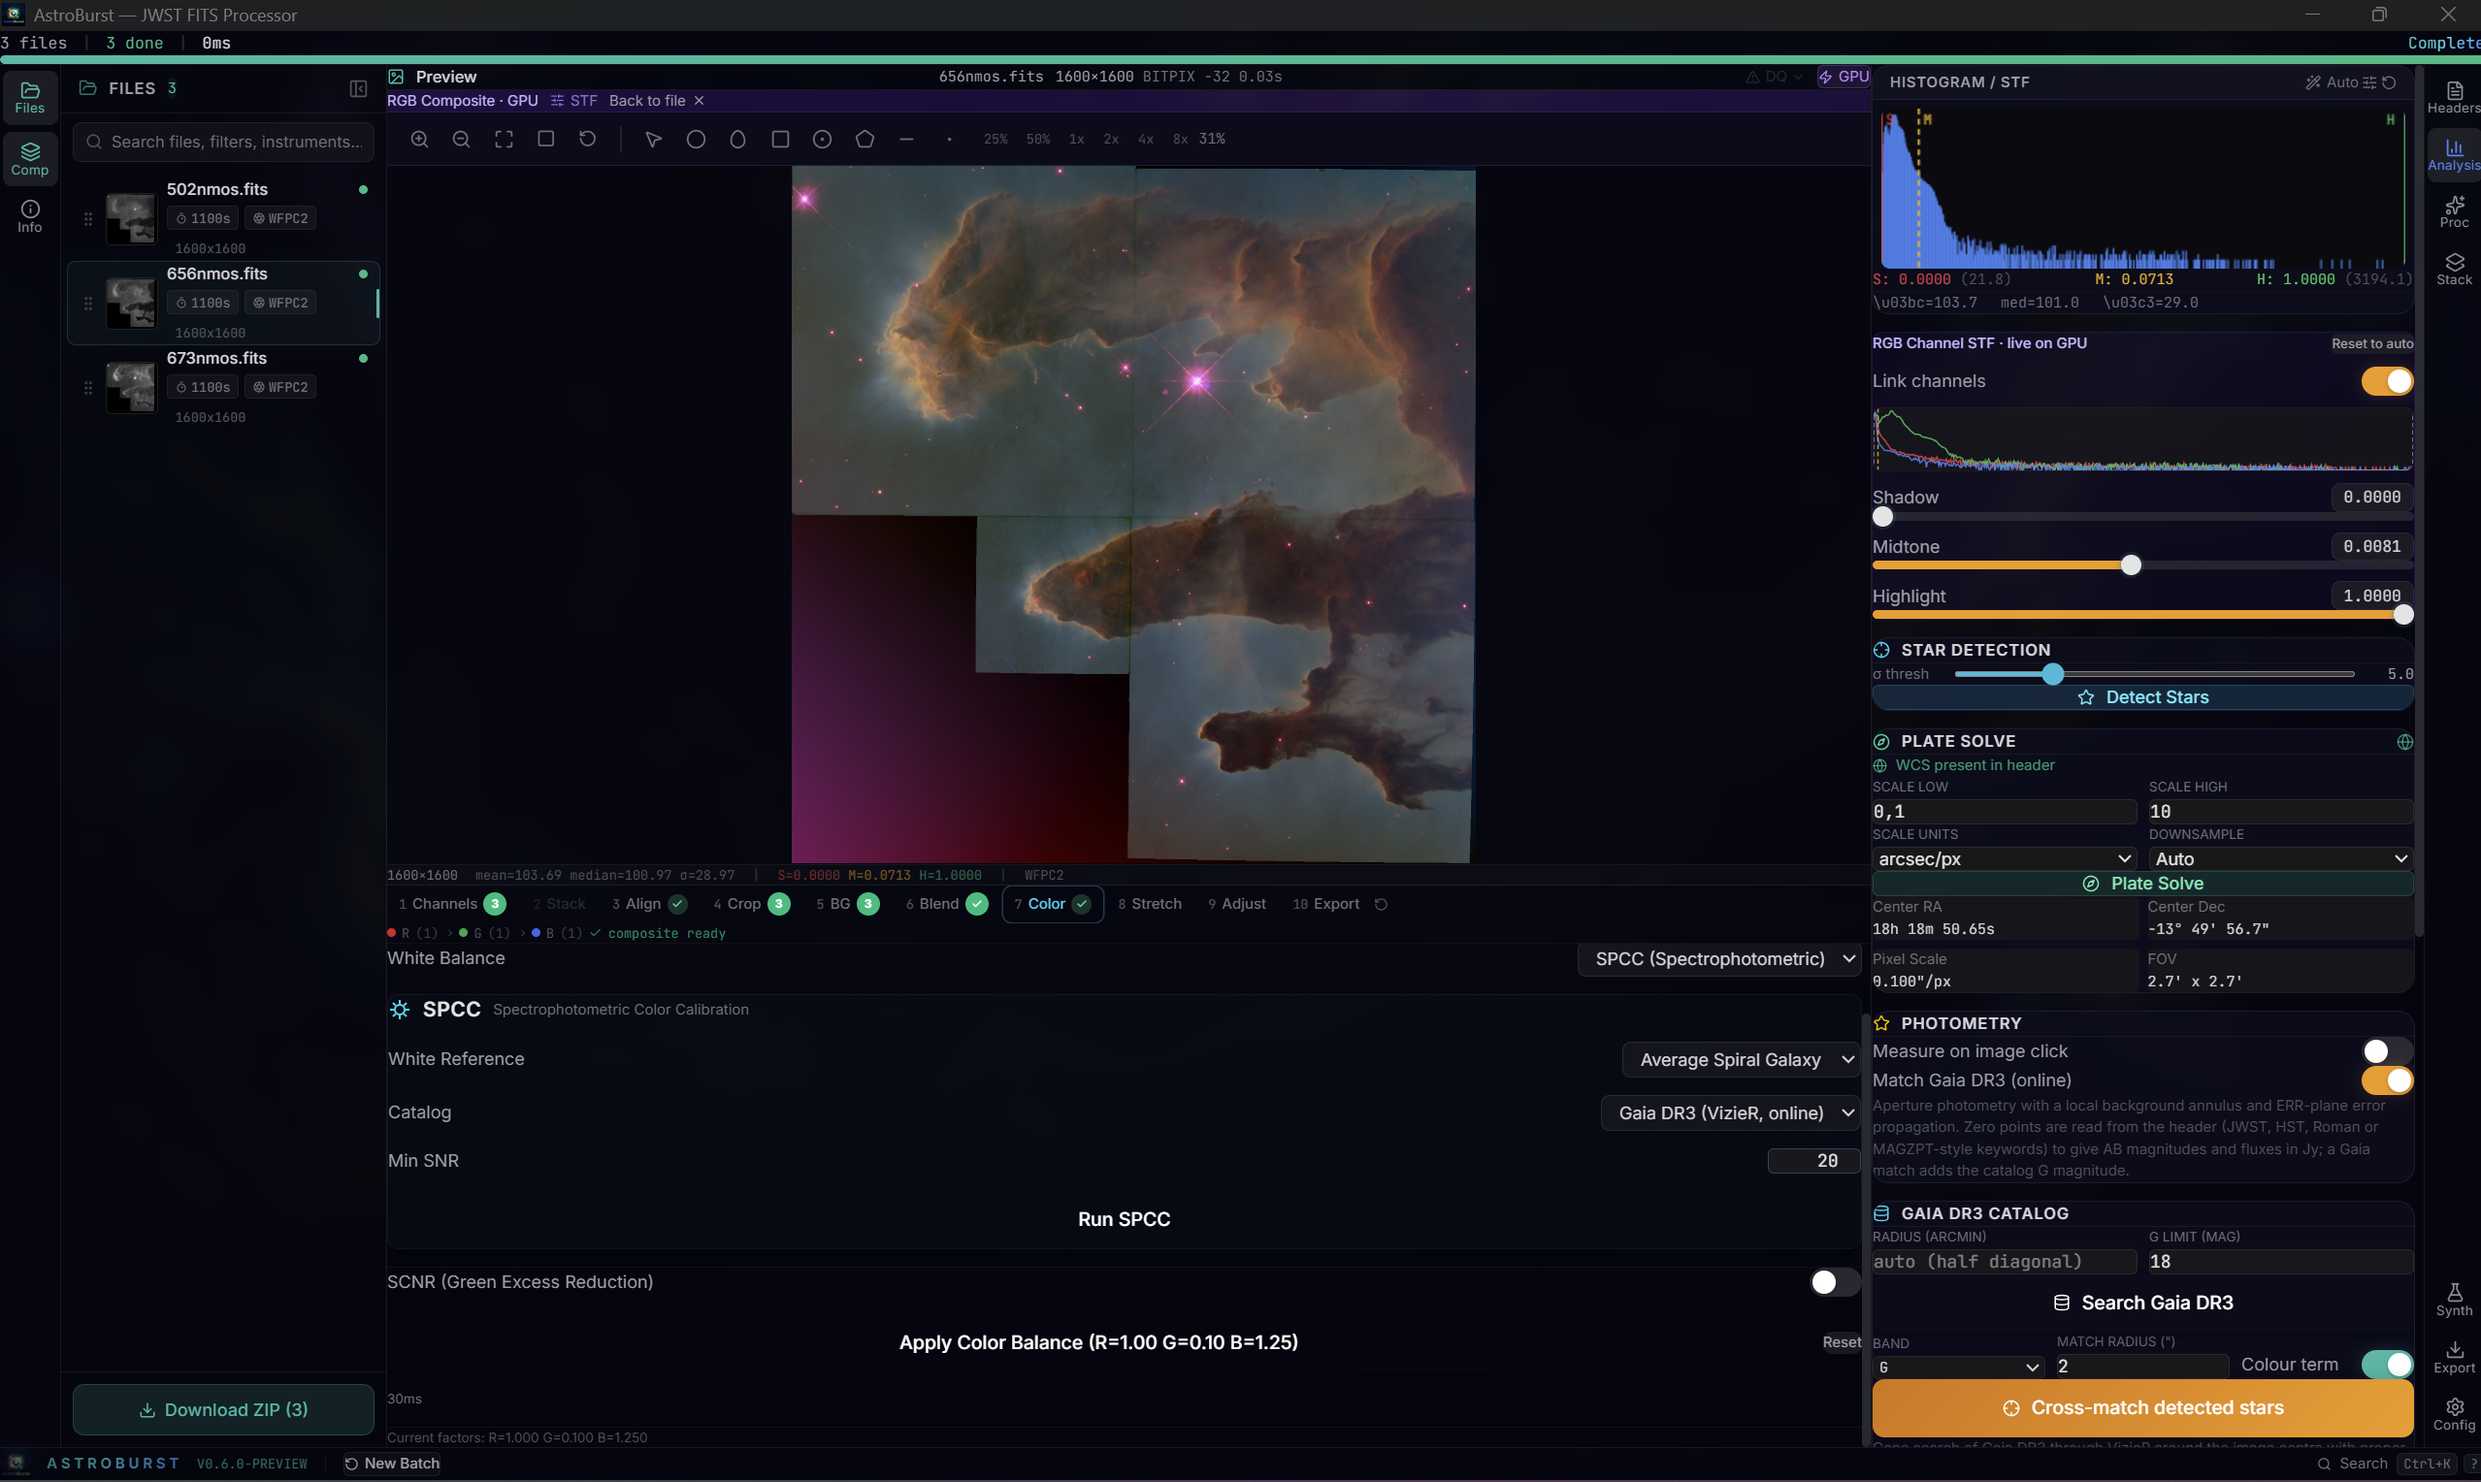
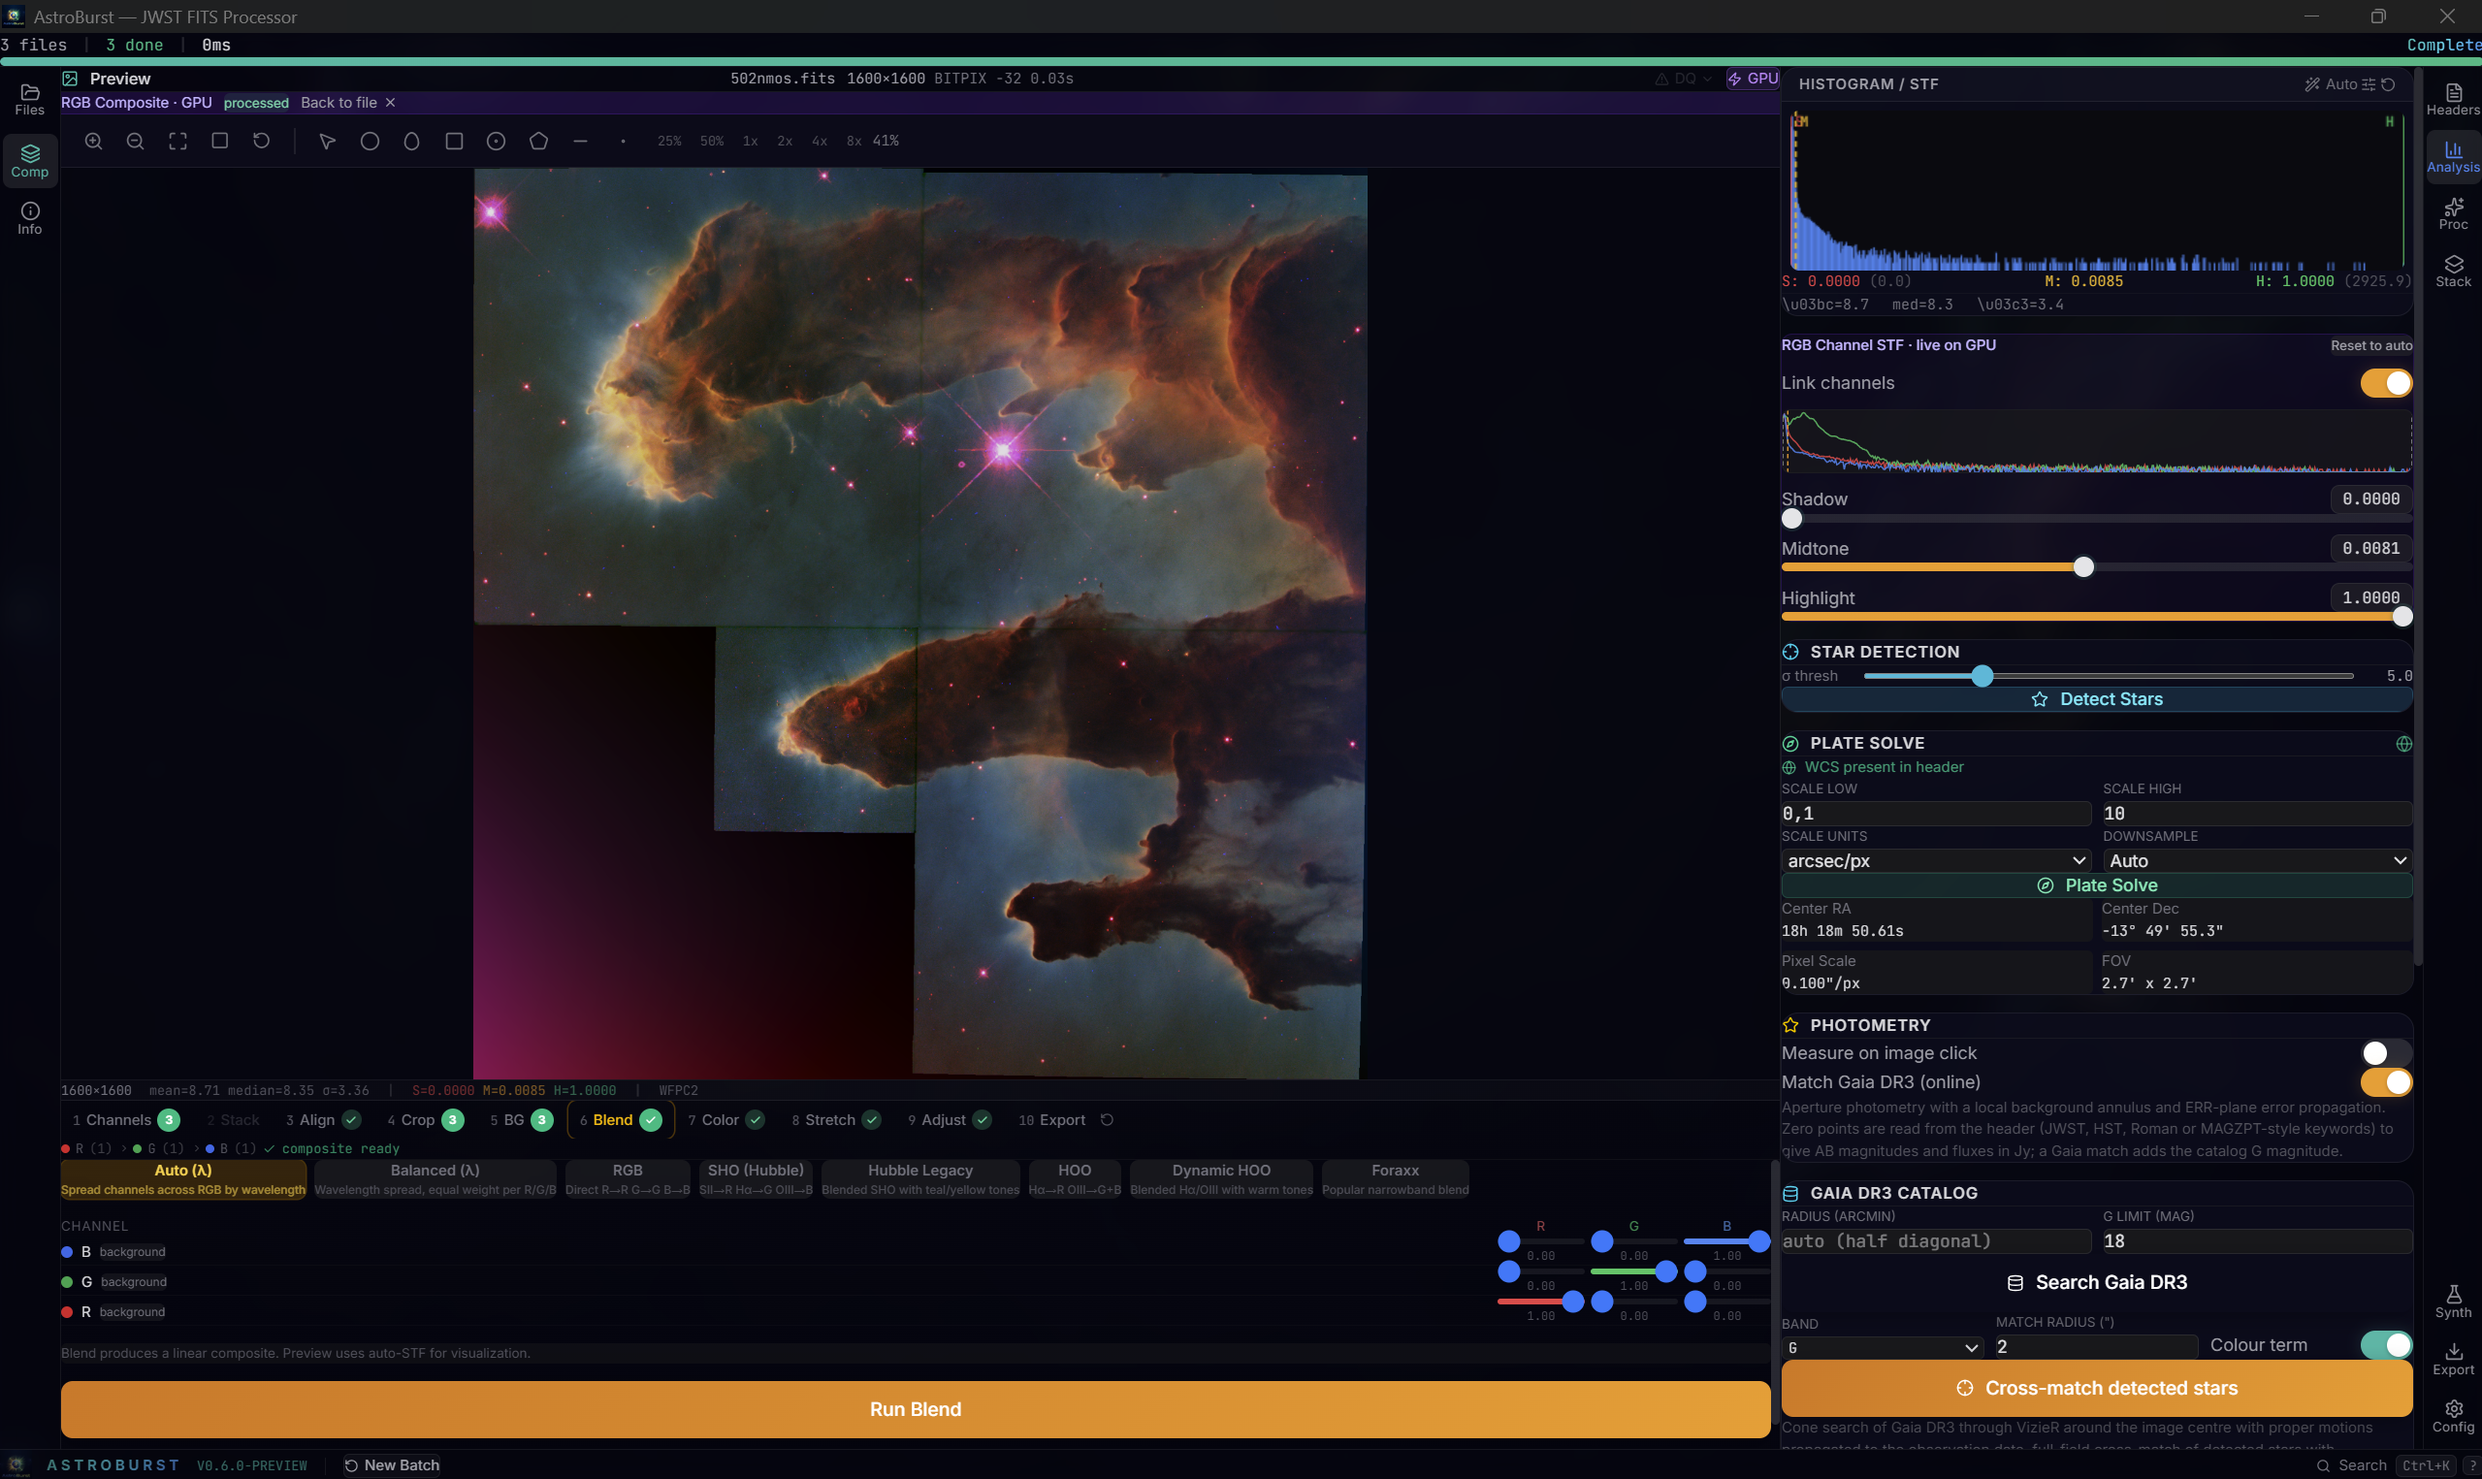
update readme

diff --git a/README.md b/README.md
@@ -31,9 +31,9 @@
 ---
 
 <p align="center">
-  <img src="docs/screenshots/hero.png" alt="AstroBurst composing the Pillars of Creation from three HST narrowband frames, with the colour calibration step, the live GPU preview and the analysis panel" width="100%">
+  <img src="docs/screenshots/hero.png" alt="AstroBurst showing a finished composite of the Pillars of Creation, the blend presets of the compose wizard, the live per-channel STF on the GPU and the analysis panel with the plate solution and the Gaia catalog" width="100%">
 </p>
-<p align="center"><em>The Pillars of Creation composed from the three HST/WFPC2 narrowband frames that ship with the app, at the colour step: spectrophotometric calibration against Gaia DR3 on the left, the live GPU composite in the middle, per-channel STF and the analysis panel on the right.</em></p>
+<p align="center"><em>The Pillars of Creation composed from the three HST/WFPC2 narrowband frames that ship with the app. Bottom: the ten wizard steps with the blend presets, resolved by spectral wavelength rather than bin order. Right: per-channel STF running live on the GPU, the plate solution read from the header, and the Gaia DR3 panel.</em></p>
 
 **Latest:** 0.6.0-preview. Since 0.5.8: DS9-class display controls shared with the headless server, any-HDU / any-array image references, DQ decoding and overlays, interactive regions with DS9 `.reg` exchange, a PixInsight-class processing round (rejection families, frame normalization, cosmetic correction, DBE spline background, PixelMath, LHE, HDRMT, exact statistics) and a science round (header photometric calibration, spectral axes and velocities, cube moment maps, SCI+ERR+DQ cutouts, WCS grid, Gaia DR3 catalog). Full history in [CHANGELOG.md](CHANGELOG.md).
 
